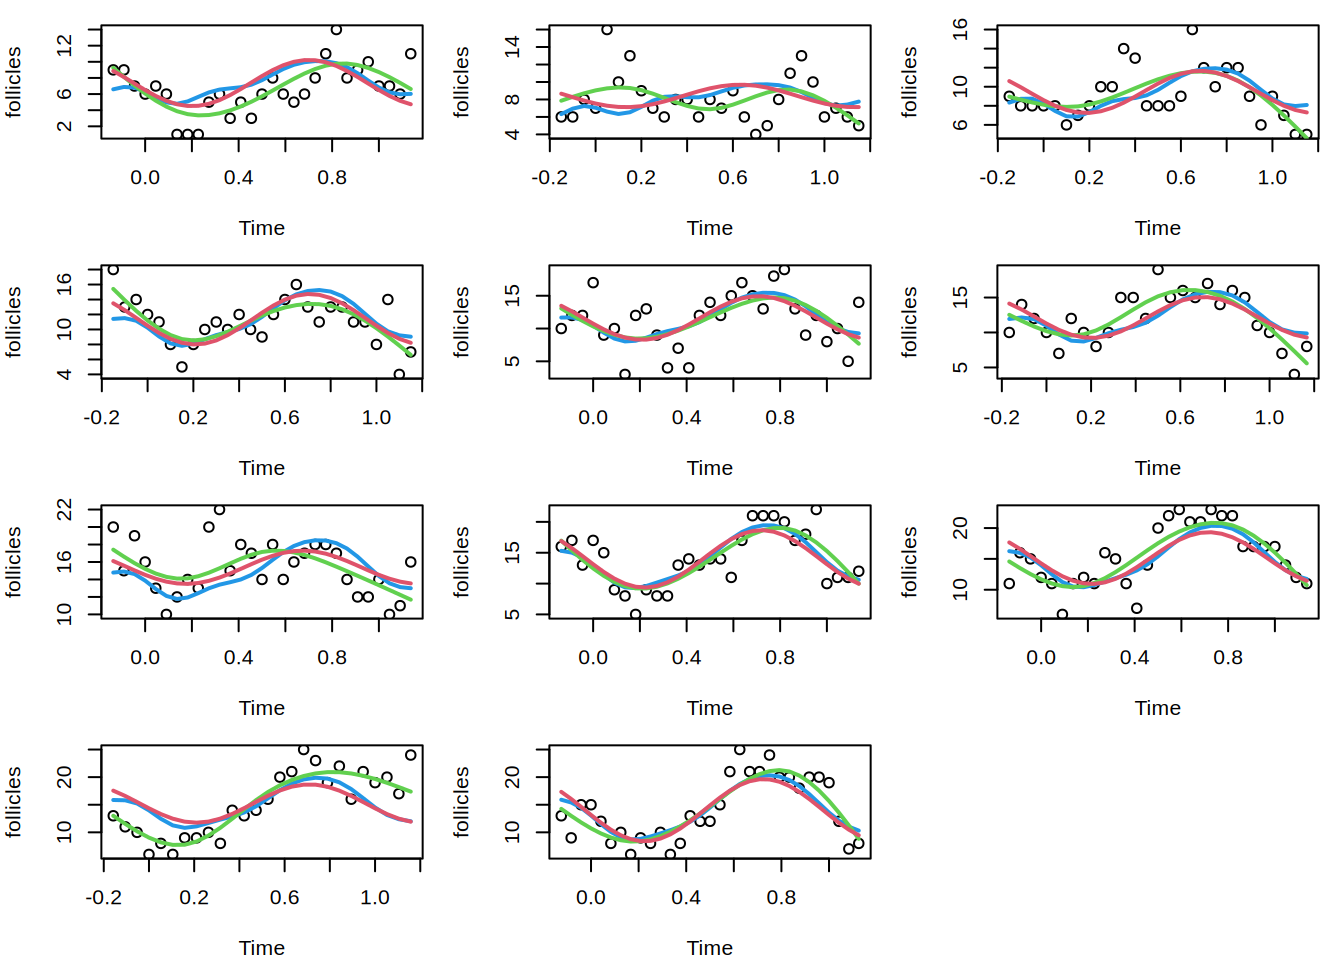
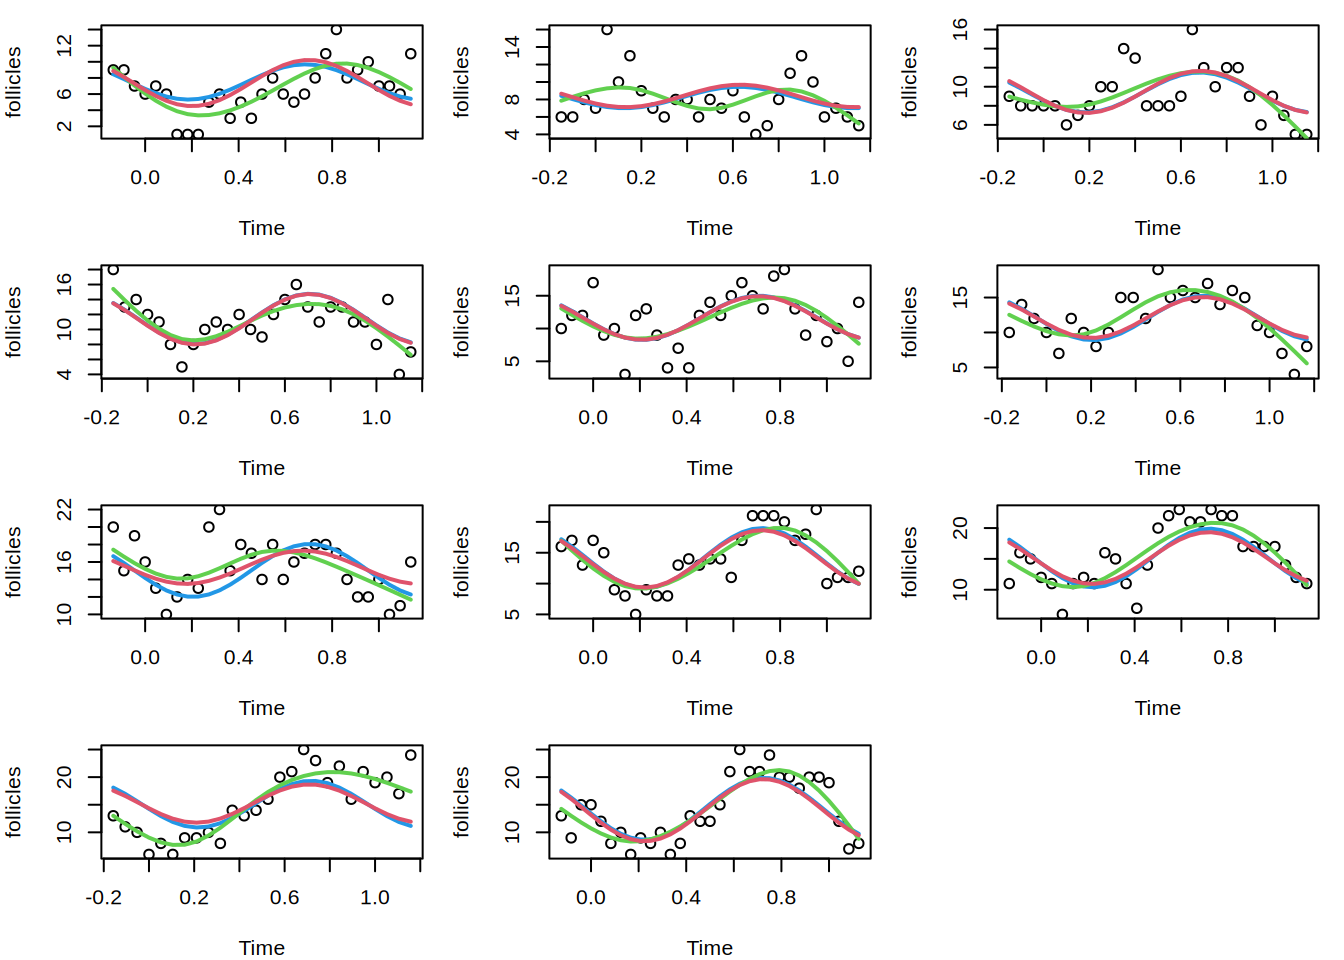
Deploying to gh-pages from @ gamlss-dev/gamlss2@55c10a704655845187b6ee034adac7688c8b528d 🚀

diff --git a/man/random.html b/man/random.html
@@ -493,7 +493,7 @@ The first uses <code>s()</code> with <code>bs = “re”</code> for simple rando
 </section>
 <section id="usage" class="level3">
 <h3 class="anchored" data-anchor-id="usage">Usage</h3>
-<pre><code class="language-R">re(fixed =~ 1, random = NULL, ...)
+<pre><code class="language-R">re(random, correlation = NULL, ...)
 </code></pre>
 </section>
 <section id="arguments" class="level3">
@@ -501,18 +501,18 @@ The first uses <code>s()</code> with <code>bs = “re”</code> for simple rando
 <table role="presentation">
 <tbody><tr>
 <td style="white-space: collapse; font-family: monospace; vertical-align: top">
-<code id="fixed">fixed</code>
+<code id="random">random</code>
 </td>
 <td>
-A formula that specifies the fixed effects of the <code>nlme{lme}</code> model. In most cases, this can also be included in the <code>gamlss2</code> formula.
+A formula specifying the random effect part of the model, as in the <code>lme()</code> function.
 </td>
 </tr>
 <tr>
 <td style="white-space: collapse; font-family: monospace; vertical-align: top">
-<code id="random">random</code>
+<code id="correlation">correlation</code>
 </td>
 <td>
-A formula specifying the random effect part of the model, as in the <code>nlme{lme()}</code> function.
+An optional correlation object, see <code>lme()</code>.
 </td>
 </tr>
 <tr>
@@ -520,7 +520,7 @@ A formula specifying the random effect part of the model, as in the <code>nlme{l
 <code id="...">…</code>
 </td>
 <td>
-For the <code>re()</code> function, the dots argument is used to specify additional control arguments for the <code>nlme{lme}</code> function, such as the <code>method</code> and <code>correlation</code> arguments.
+For the <code>re()</code> function, the dots argument is used to specify additional control arguments for the <code>lme</code> function, such as the <code>method</code> and <code>correlation</code> arguments.
 </td>
 </tr>
 </tbody></table>
@@ -558,7 +558,7 @@ For the <code>re()</code> function, the dots argument is used to specify additio
 <span id="cb1-15"><a href="#cb1-15" aria-hidden="true" tabindex="-1"></a></span>
 <span id="cb1-16"><a href="#cb1-16" aria-hidden="true" tabindex="-1"></a><span class="do">## estimation using the re() constructor,</span></span>
 <span id="cb1-17"><a href="#cb1-17" aria-hidden="true" tabindex="-1"></a><span class="do">## setup formula first</span></span>
-<span id="cb1-18"><a href="#cb1-18" aria-hidden="true" tabindex="-1"></a>f <span class="ot">&lt;-</span> distance <span class="sc">~</span> <span class="fu">s</span>(age,<span class="at">k=</span><span class="dv">3</span>) <span class="sc">+</span> <span class="fu">re</span>(<span class="at">random =</span><span class="sc">~</span> age11 <span class="sc">|</span> Subject)</span>
+<span id="cb1-18"><a href="#cb1-18" aria-hidden="true" tabindex="-1"></a>f <span class="ot">&lt;-</span> distance <span class="sc">~</span> <span class="fu">s</span>(age,<span class="at">k=</span><span class="dv">3</span>) <span class="sc">+</span> <span class="fu">re</span>(<span class="sc">~</span>age11<span class="sc">|</span>Subject)</span>
 <span id="cb1-19"><a href="#cb1-19" aria-hidden="true" tabindex="-1"></a></span>
 <span id="cb1-20"><a href="#cb1-20" aria-hidden="true" tabindex="-1"></a><span class="do">## estimate model</span></span>
 <span id="cb1-21"><a href="#cb1-21" aria-hidden="true" tabindex="-1"></a>b <span class="ot">&lt;-</span> <span class="fu">gamlss2</span>(f, <span class="at">data =</span> Orthodont)</span></code></pre></div><button title="Copy to Clipboard" class="code-copy-button"><i class="bi"></i></button></div>
@@ -583,7 +583,7 @@ GAMLSS-RS iteration  4: Global Deviance = 326.0768 eps = 0.000004     </code></p
 <span id="cb4-3"><a href="#cb4-3" aria-hidden="true" tabindex="-1"></a><span class="fu">summary</span>(st)</span></code></pre></div><button title="Copy to Clipboard" class="code-copy-button"><i class="bi"></i></button></div>
 <div class="cell-output cell-output-stdout">
 <pre><code>Linear mixed-effects model fit by maximum likelihood
-  Data: x$data 
+  Data: structure(list(age11 = c(-3, -1, 1, 3, -3, -1, 1, 3, -3, -1,  1, 3, -3, -1, 1, 3, -3, -1, 1, 3, -3, -1, 1, 3, -3, -1, 1, 3,  -3, -1, 1, 3, -3, -1, 1, 3, -3, -1, 1, 3, -3, -1, 1, 3, -3, -1,  1, 3, -3, -1, 1, 3, -3, -1, 1, 3, -3, -1, 1, 3, -3, -1, 1, 3,  -3, -1, 1, 3, -3, -1, 1, 3, -3, -1, 1, 3, -3, -1, 1, 3, -3, -1,  1, 3, -3, -1, 1, 3, -3, -1, 1, 3, -3, -1, 1, 3, -3, -1, 1, 3,  -3, -1, 1, 3, -3, -1, 1, 3), Subject = structure(c(15L, 15L,  15L, 15L, 3L, 3L, 3L, 3L, 7L, 7L, 7L, 7L, 14L, 14L, 14L, 14L,  2L, 2L, 2L, 2L, 13L, 13L, 13L, 13L, 5L, 5L, 5L, 5L, 6L, 6L, 6L,  6L, 11L, 11L, 11L, 11L, 16L, 16L, 16L, 16L, 4L, 4L, 4L, 4L, 8L,  8L, 8L, 8L, 9L, 9L, 9L, 9L, 10L, 10L, 10L, 10L, 12L, 12L, 12L,  12L, 1L, 1L, 1L, 1L, 20L, 20L, 20L, 20L, 23L, 23L, 23L, 23L,  25L, 25L, 25L, 25L, 26L, 26L, 26L, 26L, 21L, 21L, 21L, 21L, 19L,  19L, 19L, 19L, 22L, 22L, 22L, 22L, 24L, 24L, 24L, 24L, 18L, 18L,  18L, 18L, 17L, 17L, 17L, 17L, 27L, 27L, 27L, 27L), levels = c("M16",  "M05", "M02", "M11", "M07", "M08", "M03", "M12", "M13", "M14",  "M09", "M15", "M06", "M04", "M01", "M10", "F10", "F09", "F06",  "F01", "F05", "F07", "F02", "F08", "F03", "F04", "F11"), class = c("ordered",  "factor")), response_z = c(3.94062278491185, 1.65382163146266,  4.33345149116368, 4.97951236401509, -0.559377215087963, -0.846178368537345,  -1.66654850883632, 0.479512364015104, 0.940622784912033, -0.846178368537345,  -0.666548508836321, 1.4795123640151, 3.44062278491204, 4.15382163146266,  1.83345149116366, 0.979512364015104, -2.05937721508796, 0.153821631462652,  -2.16654850883632, -0.0204876359849031, 2.44062278491203, 2.15382163146266,  2.33345149116367, 2.47951236401511, -0.059377215087963, -1.34617836853734,  -0.166548508836321, 0.4795123640151, 1.94062278491203, -1.84617836853734,  -0.166548508836321, -0.520487635984892, 0.940622784912037, -2.84617836853734,  6.33345149116367, -0.0204876359849031, 5.44062278491203, 4.65382163146266,  6.33345149116368, 5.4795123640151, 0.94062278491203, -0.346178368537345,  -1.16654850883632, -1.0204876359849, -0.559377215087963, 0.153821631462659,  -0.666548508836325, 1.97951236401509, -5.05937721508797, 1.15382163146266,  1.33345149116368, 3.4795123640151, 0.440622784912033, 2.15382163146266,  0.833451491163679, -0.020487635984896, 0.940622784912037, 1.15382163146266,  1.33345149116368, 3.9795123640151, -0.059377215087963, -1.84617836853734,  -1.16654850883632, -1.0204876359849, -1.05937721508797, -3.34617836853735,  -3.16654850883632, -3.0204876359849, -1.05937721508797, -1.84617836853734,  -0.666548508836328, -0.5204876359849, -1.55937721508797, 0.653821631462655,  -0.166548508836321, -0.020487635984896, 1.44062278491203, 1.15382163146266,  0.333451491163679, 0.4795123640151, -0.559377215087963, -0.346178368537338,  -2.16654850883632, -2.5204876359849, -2.05937721508797, -2.34617836853733,  -3.66654850883632, -3.52048763598491, -0.559377215087963, -0.846178368537345,  -1.66654850883632, -1.0204876359849, 0.940622784912033, -0.346178368537345,  -1.16654850883632, -2.0204876359849, -2.05937721508796, -2.34617836853734,  -2.66654850883632, -4.52048763598489, -5.55937721508796, -4.34617836853734,  -5.66654850883632, -6.52048763598491, 2.44062278491203, 1.65382163146266,  3.33345149116367, 1.9795123640151), weights_w = c(0.913307652411929,  0.91330765241193, 0.91330765241193, 0.91330765241193, 0.91330765241193,  0.91330765241193, 0.91330765241193, 0.91330765241193, 0.91330765241193,  0.91330765241193, 0.91330765241193, 0.91330765241193, 0.91330765241193,  0.91330765241193, 0.91330765241193, 0.91330765241193, 0.91330765241193,  0.91330765241193, 0.91330765241193, 0.91330765241193, 0.91330765241193,  0.91330765241193, 0.91330765241193, 0.91330765241193, 0.91330765241193,  0.91330765241193, 0.91330765241193, 0.91330765241193, 0.91330765241193,  0.91330765241193, 0.91330765241193, 0.91330765241193, 0.91330765241193,  0.91330765241193, 0.91330765241193, 0.91330765241193, 0.91330765241193,  0.91330765241193, 0.91330765241193, 0.91330765241193, 0.91330765241193,  0.91330765241193, 0.91330765241193, 0.91330765241193, 0.91330765241193,  0.91330765241193, 0.91330765241193, 0.91330765241193, 0.91330765241193,  0.91330765241193, 0.91330765241193, 0.91330765241193, 0.91330765241193,  0.91330765241193, 0.91330765241193, 0.91330765241193, 0.91330765241193,  0.91330765241193, 0.91330765241193, 0.91330765241193, 0.91330765241193,  0.91330765241193, 0.91330765241193, 0.91330765241193, 0.91330765241193,  0.91330765241193, 0.91330765241193, 0.91330765241193, 0.91330765241193,  0.91330765241193, 0.91330765241193, 0.91330765241193, 0.91330765241193,  0.91330765241193, 0.91330765241193, 0.91330765241193, 0.91330765241193,  0.91330765241193, 0.91330765241193, 0.91330765241193, 0.91330765241193,  0.91330765241193, 0.91330765241193, 0.91330765241193, 0.91330765241193,  0.91330765241193, 0.91330765241193, 0.91330765241193, 0.91330765241193,  0.91330765241193, 0.91330765241193, 0.91330765241193, 0.91330765241193,  0.91330765241193, 0.91330765241193, 0.91330765241193, 0.91330765241193,  0.91330765241193, 0.91330765241193, 0.91330765241193, 0.91330765241193,  0.91330765241193, 0.91330765241193, 0.91330765241193, 0.91330765241193,  0.91330765241193, 0.91330765241193, 0.91330765241193)), terms = ~age11 +      Subject, row.names = c(NA, 108L), class = "data.frame") 
        AIC     BIC    logLik
   448.9844 462.395 -219.4922
 
@@ -598,7 +598,7 @@ Residual    1.3679245
 Variance function:
  Structure: fixed weights
  Formula: ~weights_w 
-Fixed effects:  x$fixed 
+Fixed effects:  response_z ~ 1 
                    Value Std.Error DF      t-value p-value
 (Intercept) 1.219419e-08  0.404892 81 3.011713e-08       1
 
@@ -653,16 +653,15 @@ GAMLSS-RS iteration 16: Global Deviance = 315.8023 eps = 0.000009     </code></p
 <span id="cb9-10"><a href="#cb9-10" aria-hidden="true" tabindex="-1"></a>Ovary<span class="sc">$</span>cos1 <span class="ot">&lt;-</span> <span class="fu">cos</span>(<span class="dv">2</span> <span class="sc">*</span> pi <span class="sc">*</span> Ovary<span class="sc">$</span>Time)</span>
 <span id="cb9-11"><a href="#cb9-11" aria-hidden="true" tabindex="-1"></a></span>
 <span id="cb9-12"><a href="#cb9-12" aria-hidden="true" tabindex="-1"></a><span class="do">## model formula</span></span>
-<span id="cb9-13"><a href="#cb9-13" aria-hidden="true" tabindex="-1"></a>f <span class="ot">&lt;-</span> follicles <span class="sc">~</span> <span class="fu">s</span>(Time) <span class="sc">+</span> <span class="fu">re</span>(<span class="at">random =</span><span class="sc">~</span> sin1 <span class="sc">|</span> Mare,</span>
-<span id="cb9-14"><a href="#cb9-14" aria-hidden="true" tabindex="-1"></a>  <span class="at">correlation =</span> <span class="fu">corARMA</span>(<span class="at">q =</span> <span class="dv">2</span>), <span class="at">control =</span> <span class="fu">lmeControl</span>(<span class="at">maxIter =</span> <span class="dv">100</span>))</span>
+<span id="cb9-13"><a href="#cb9-13" aria-hidden="true" tabindex="-1"></a>f <span class="ot">&lt;-</span> follicles <span class="sc">~</span> sin1 <span class="sc">+</span> cos1 <span class="sc">+</span></span>
+<span id="cb9-14"><a href="#cb9-14" aria-hidden="true" tabindex="-1"></a>  <span class="fu">re</span>(<span class="sc">~</span>sin1<span class="sc">|</span>Mare, <span class="at">correlation =</span> <span class="fu">corARMA</span>(<span class="at">q =</span> <span class="dv">2</span>))</span>
 <span id="cb9-15"><a href="#cb9-15" aria-hidden="true" tabindex="-1"></a></span>
 <span id="cb9-16"><a href="#cb9-16" aria-hidden="true" tabindex="-1"></a><span class="do">## estimate model</span></span>
 <span id="cb9-17"><a href="#cb9-17" aria-hidden="true" tabindex="-1"></a>b <span class="ot">&lt;-</span> <span class="fu">gamlss2</span>(f, <span class="at">data =</span> Ovary)</span></code></pre></div><button title="Copy to Clipboard" class="code-copy-button"><i class="bi"></i></button></div>
 <div class="cell-output cell-output-stdout">
-<pre><code>GAMLSS-RS iteration  1: Global Deviance = 1560.1178 eps = 0.165409     
-GAMLSS-RS iteration  2: Global Deviance = 1551.2752 eps = 0.005667     
-GAMLSS-RS iteration  3: Global Deviance = 1551.1391 eps = 0.000087     
-GAMLSS-RS iteration  4: Global Deviance = 1551.1283 eps = 0.000006     </code></pre>
+<pre><code>GAMLSS-RS iteration  1: Global Deviance = 1569.197 eps = 0.160552     
+GAMLSS-RS iteration  2: Global Deviance = 1569.1644 eps = 0.000020     
+GAMLSS-RS iteration  3: Global Deviance = 1569.1562 eps = 0.000005     </code></pre>
 </div>
 <div class="code-copy-outer-scaffold"><div class="sourceCode cell-code" id="cb11"><pre class="sourceCode r code-with-copy"><code class="sourceCode r"><span id="cb11-1"><a href="#cb11-1" aria-hidden="true" tabindex="-1"></a><span class="do">## smooth random effects</span></span>
 <span id="cb11-2"><a href="#cb11-2" aria-hidden="true" tabindex="-1"></a>f <span class="ot">&lt;-</span> follicles <span class="sc">~</span> <span class="fu">ti</span>(Time) <span class="sc">+</span> <span class="fu">ti</span>(Mare, <span class="at">bs =</span> <span class="st">"re"</span>) <span class="sc">+</span> </span>

diff --git a/man/prodist.gamlss2.html b/man/prodist.gamlss2.html
@@ -606,10 +606,10 @@ GAMLSS-RS iteration  4: Global Deviance = 405.7473 eps = 0.000000     </code></p
 <div class="code-copy-outer-scaffold"><div class="sourceCode cell-code" id="cb16"><pre class="sourceCode r code-with-copy"><code class="sourceCode r"><span id="cb16-1"><a href="#cb16-1" aria-hidden="true" tabindex="-1"></a><span class="do">## simulate random numbers</span></span>
 <span id="cb16-2"><a href="#cb16-2" aria-hidden="true" tabindex="-1"></a><span class="fu">random</span>(d, <span class="dv">5</span>)</span></code></pre></div><button title="Copy to Clipboard" class="code-copy-button"><i class="bi"></i></button></div>
 <div class="cell-output cell-output-stdout">
-<pre><code>       r_1        r_2      r_3       r_4       r_5
-1 27.82186   5.711937 22.27253  26.67171  27.72545
-2 54.04166  34.074199 89.52229  97.68432  60.79640
-3 66.29728 128.208283 70.93077 127.11334 157.59375</code></pre>
+<pre><code>        r_1       r_2        r_3      r_4       r_5
+1  27.02220  19.11136   4.180909 21.32804  21.36968
+2  57.01157  60.19695  55.314479 89.95937  42.57105
+3 107.68111 185.99058 139.301479 88.12615 135.16595</code></pre>
 </div>
 <div class="code-copy-outer-scaffold"><div class="sourceCode cell-code" id="cb18"><pre class="sourceCode r code-with-copy"><code class="sourceCode r"><span id="cb18-1"><a href="#cb18-1" aria-hidden="true" tabindex="-1"></a><span class="do">## density and distribution</span></span>
 <span id="cb18-2"><a href="#cb18-2" aria-hidden="true" tabindex="-1"></a><span class="fu">pdf</span>(d, <span class="dv">50</span> <span class="sc">*</span> <span class="sc">-</span><span class="dv">2</span><span class="sc">:</span><span class="dv">2</span>)</span></code></pre></div><button title="Copy to Clipboard" class="code-copy-button"><i class="bi"></i></button></div>

diff --git a/man/gamlss2.html b/man/gamlss2.html
@@ -661,7 +661,7 @@ edf  4.5505     2.5450  1.0015   1.0004
 *--------
 n = 610 df =  13.1 res.df =  596.9
 Deviance = 4770.1544 Null Dev. Red. = 33.39%
-AIC = 4796.3494 elapsed =  0.85sec</code></pre>
+AIC = 4796.3494 elapsed =  0.86sec</code></pre>
 </div>
 <div class="code-copy-outer-scaffold"><div class="sourceCode cell-code" id="cb5"><pre class="sourceCode r code-with-copy"><code class="sourceCode r"><span id="cb5-1"><a href="#cb5-1" aria-hidden="true" tabindex="-1"></a><span class="do">## plot estimated effects</span></span>
 <span id="cb5-2"><a href="#cb5-2" aria-hidden="true" tabindex="-1"></a><span class="fu">plot</span>(b, <span class="at">which =</span> <span class="st">"effects"</span>)</span></code></pre></div><button title="Copy to Clipboard" class="code-copy-button"><i class="bi"></i></button></div>
